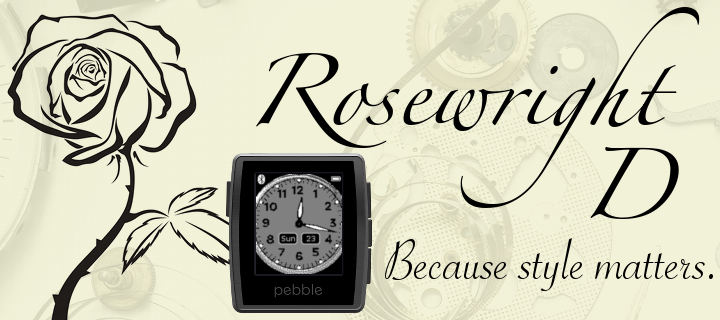
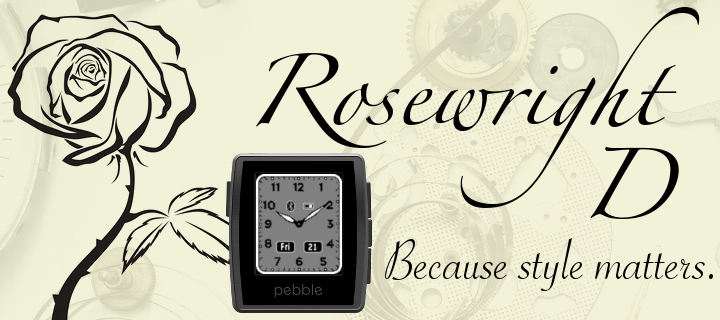
new screenshots for d

Changed region(s): [[0.3361, 0.5312, 0.4889, 0.875]]

diff --git a/config_watch.py b/config_watch.py
@@ -257,7 +257,7 @@ faces = {
                         (0, 0, 'w'), (0, 0, 'w'), ],
         'battery' : [ (79, 49, 'bt'), (79, 49, 'bt'),
                       (125, 3, 'w'), (125, 3, 'w'), ],
-        'defaults' : [ 'day', 'date' ],
+        'defaults' : [ 'day', 'date', 'bluetooth', 'battery' ],
         },
     'e' : {
         'filename' : ['e_face.png', 'e_face_white.png'],
